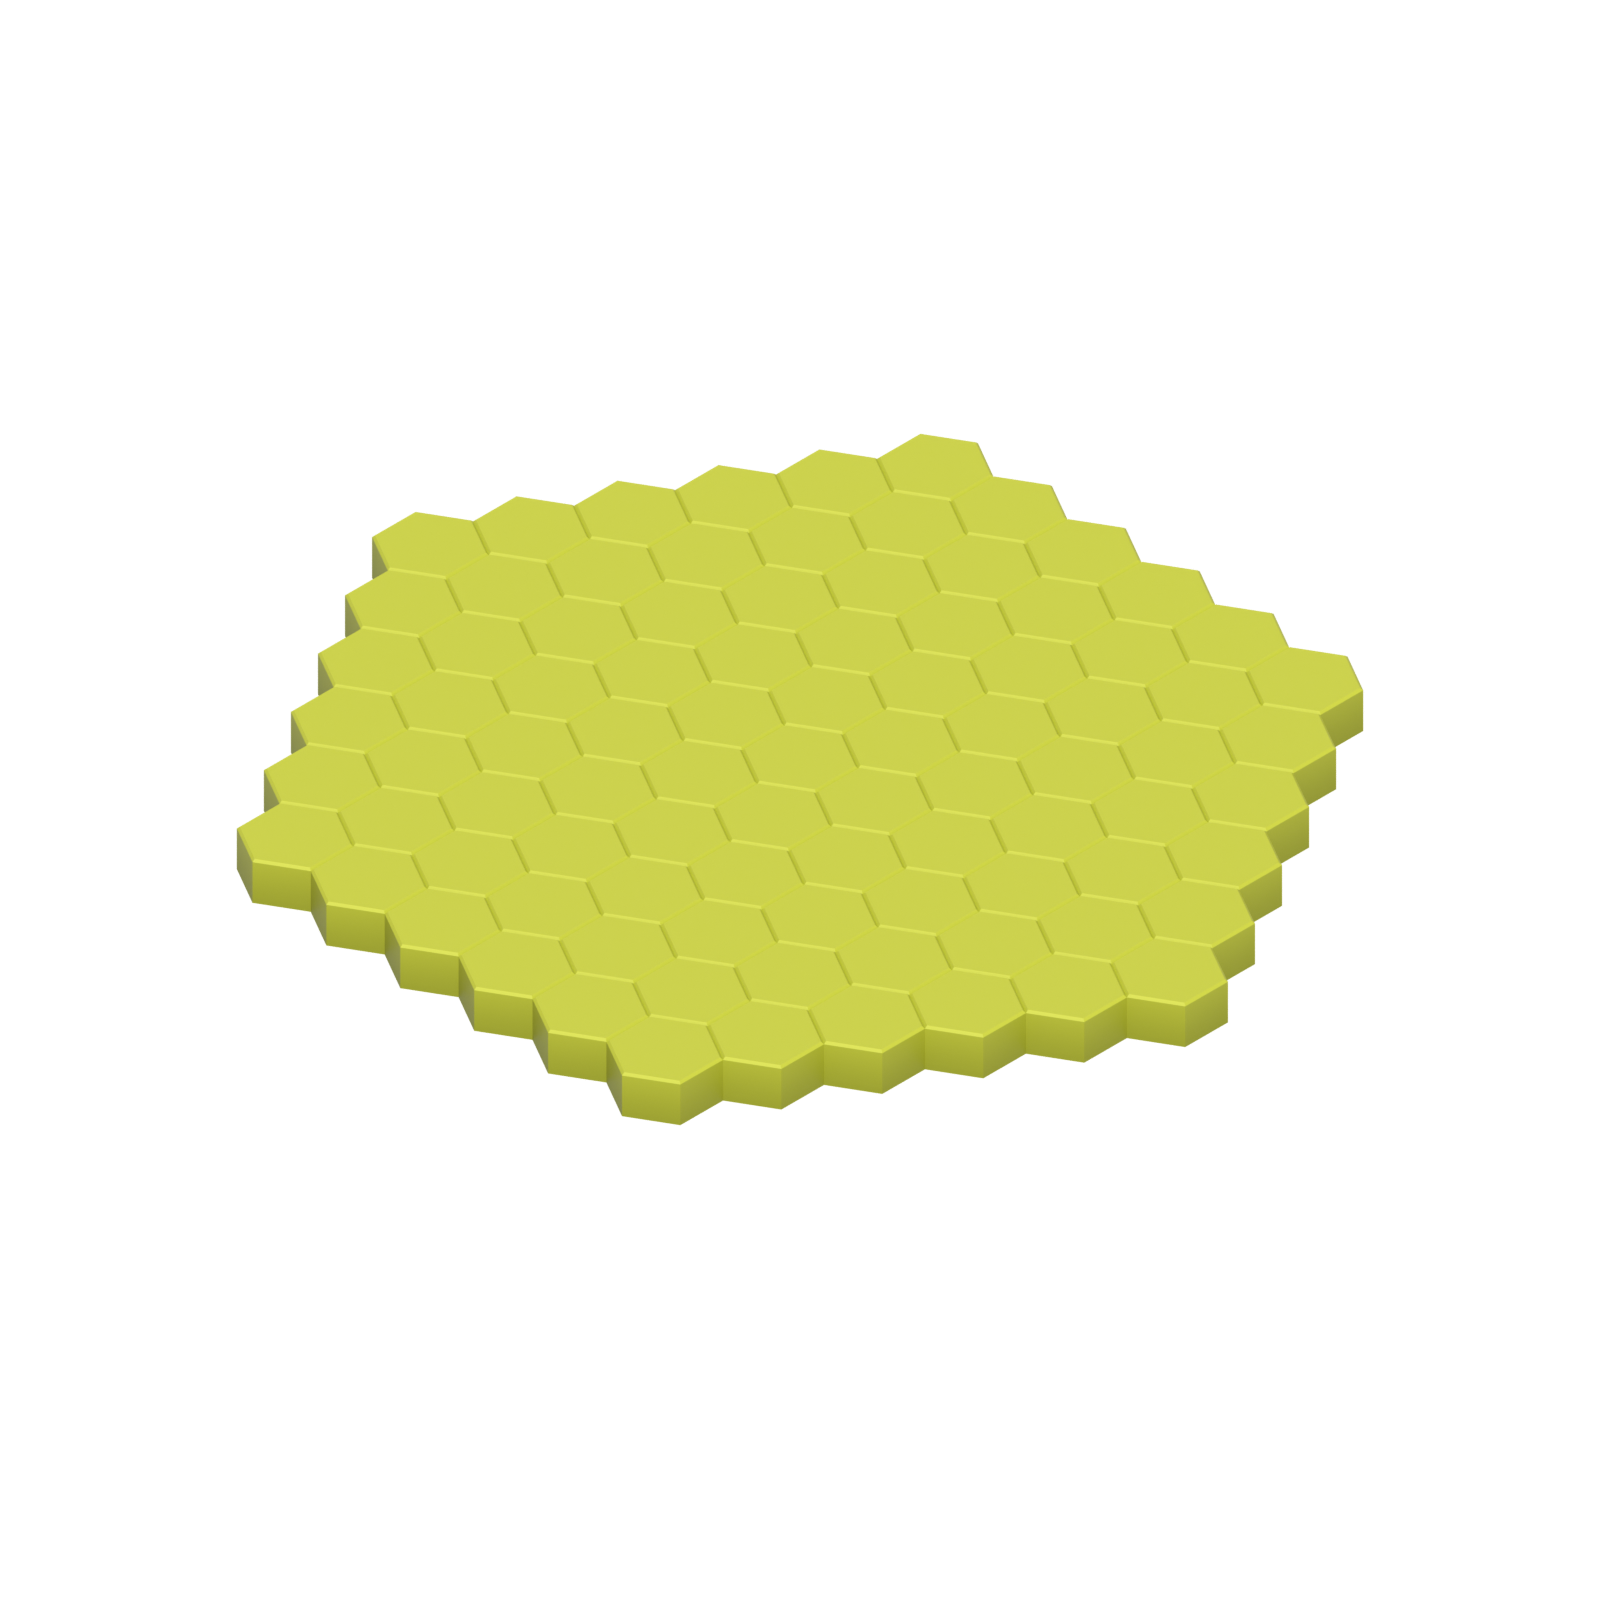
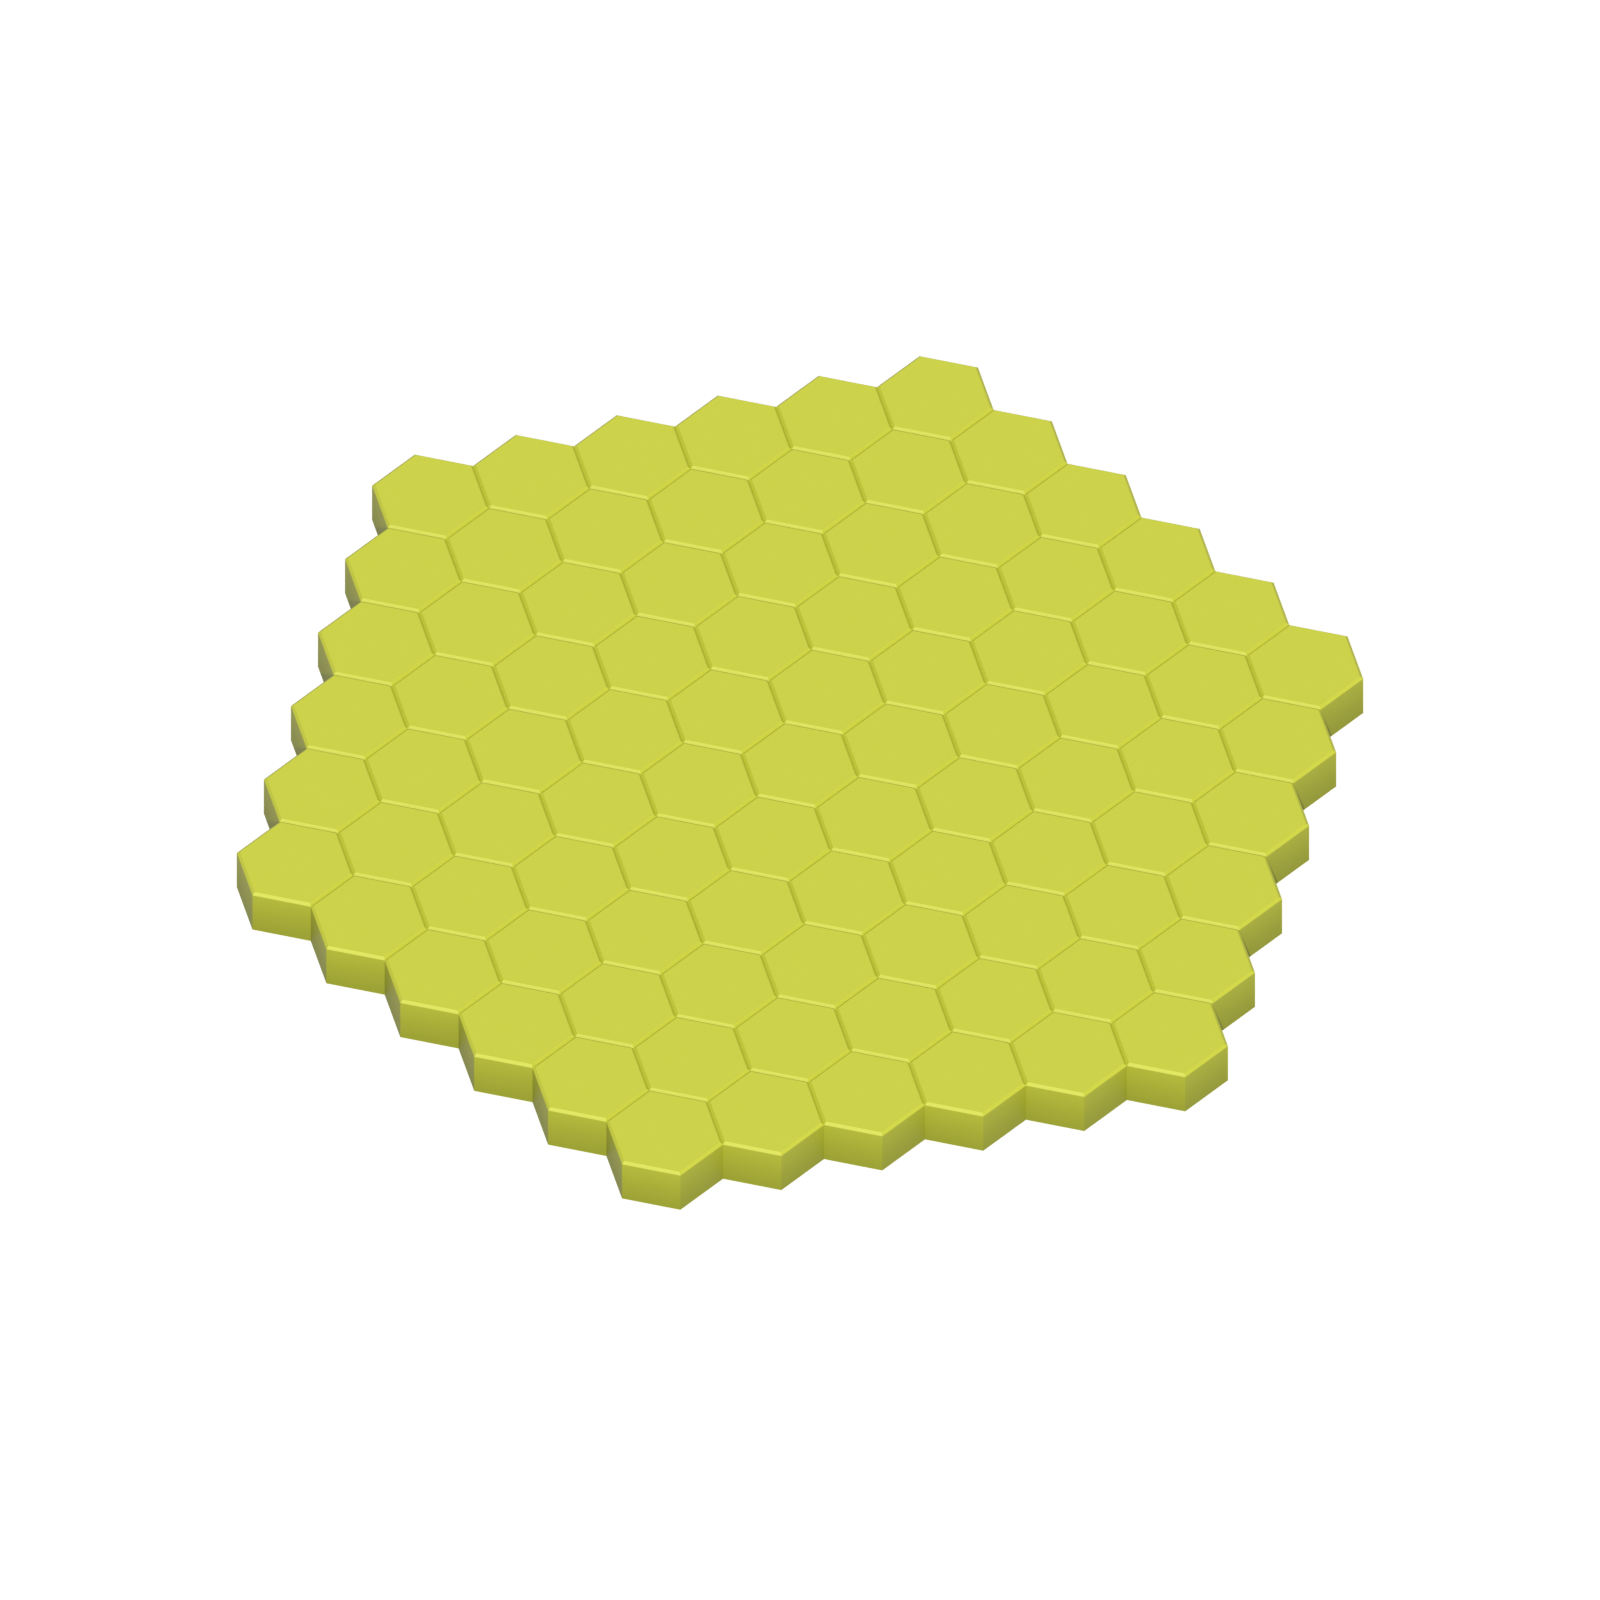
[AlphaPolo] feat: 棋盤改用較俯視的 isometric 角度 (~47°)
- 相機從 (10,-10,10)~35° 改為 (10,-10,15)~47°，減少過度偏斜
- 重新 render 棋盤與所有塔/障礙物素材(維持相同 px/unit 比例)
- render 腳本支援 cam 參數，之後微調角度只需改數值重 render，程式不動

Changed region(s): [[0.125, 0.2188, 0.875, 0.7812], [0.1875, 0.375, 0.2188, 0.4375]]

diff --git a/tool/render_sprites.py b/tool/render_sprites.py
@@ -82,7 +82,8 @@ def main():
     cam = bpy.data.objects.new("Cam", cam_data)
     scene.collection.objects.link(cam)
     scene.camera = cam
-    cam.location = mathutils.Vector((10, -10, 10))
+    cl = manifest.get("cam", [10, -10, 10])
+    cam.location = mathutils.Vector((cl[0], cl[1], cl[2]))
     look = mathutils.Vector((0, 0, 0)) - cam.location
     cam.rotation_euler = look.to_track_quat("-Z", "Y").to_euler()
 

diff --git a/tool/render_board.py b/tool/render_board.py
@@ -82,7 +82,8 @@ def main():
     cam = bpy.data.objects.new("Cam", cam_data)
     scene.collection.objects.link(cam)
     scene.camera = cam
-    cam.location = mathutils.Vector((10, -10, 10))
+    cl = cfg.get("cam", [10, -10, 10])
+    cam.location = mathutils.Vector((cl[0], cl[1], cl[2]))
     cam.rotation_euler = (
         (mathutils.Vector((0, 0, 0)) - cam.location).to_track_quat("-Z", "Y").to_euler()
     )
